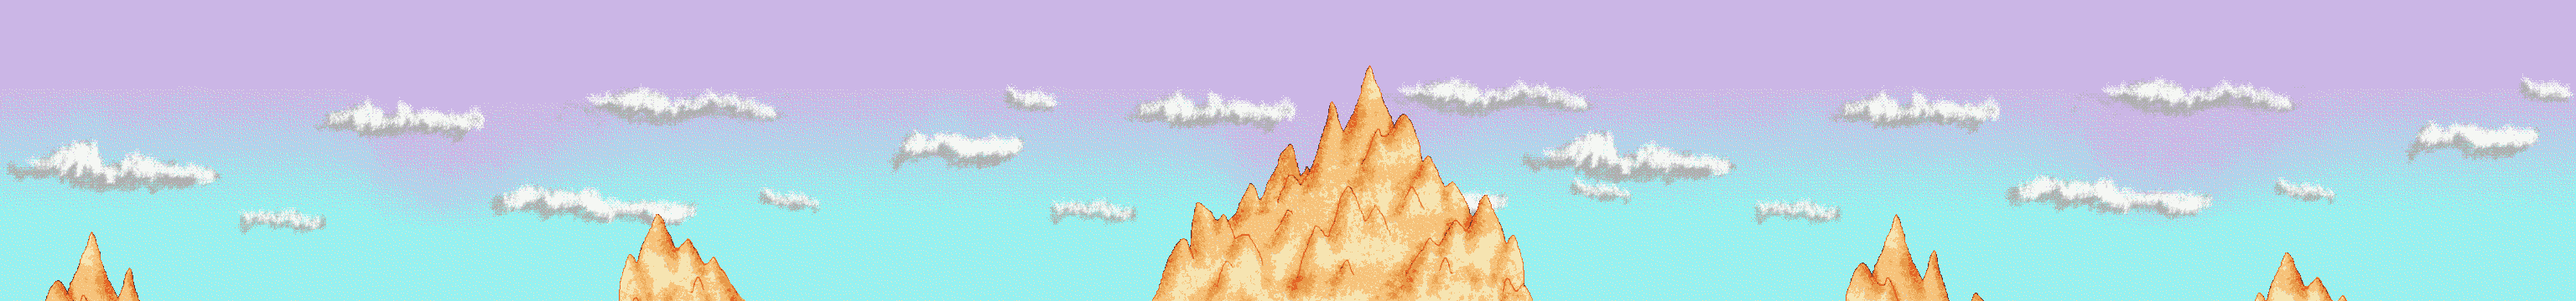
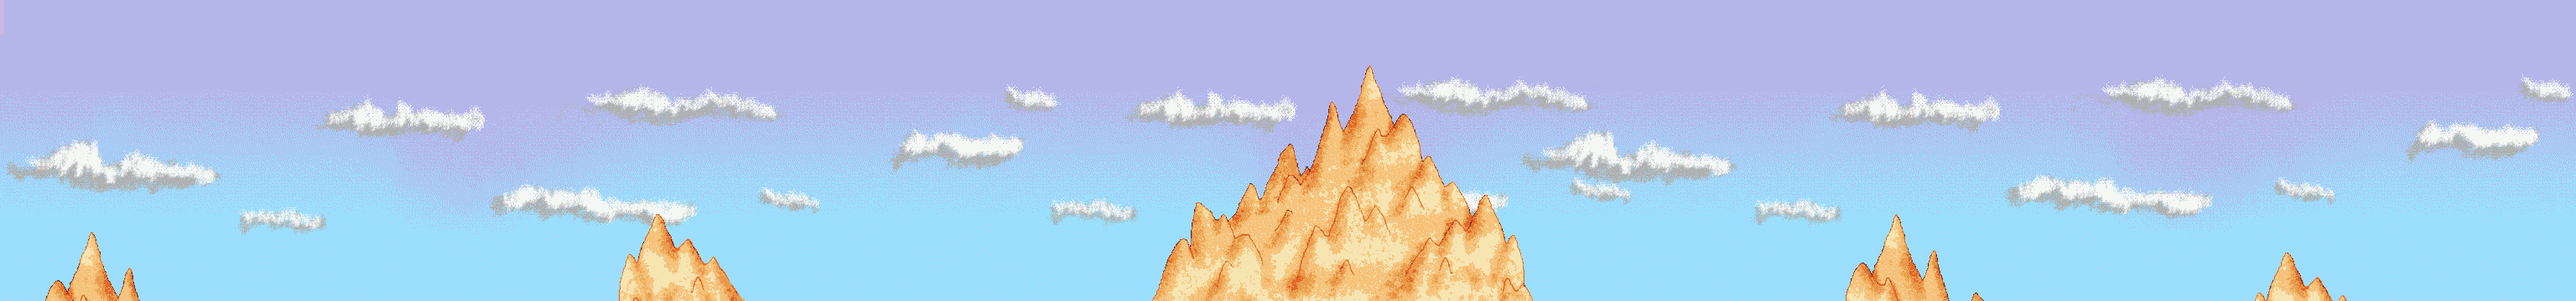
This background color is a bit better maybe

Changed region(s): [[0.0, 0.3056, 0.5, 1.0], [0.5312, 0.3056, 1.0, 1.0]]

diff --git a/main/Renderer.js b/main/Renderer.js
@@ -20,6 +20,8 @@ Renderer = (function() {
 			"assets/tiles/water.png",
 			"assets/tiles/waterback.png",
 			
+			"assets/tiles/bg-mountains.png",
+			
 			"assets/type.fnt"
 		]).load(next);
 	}
